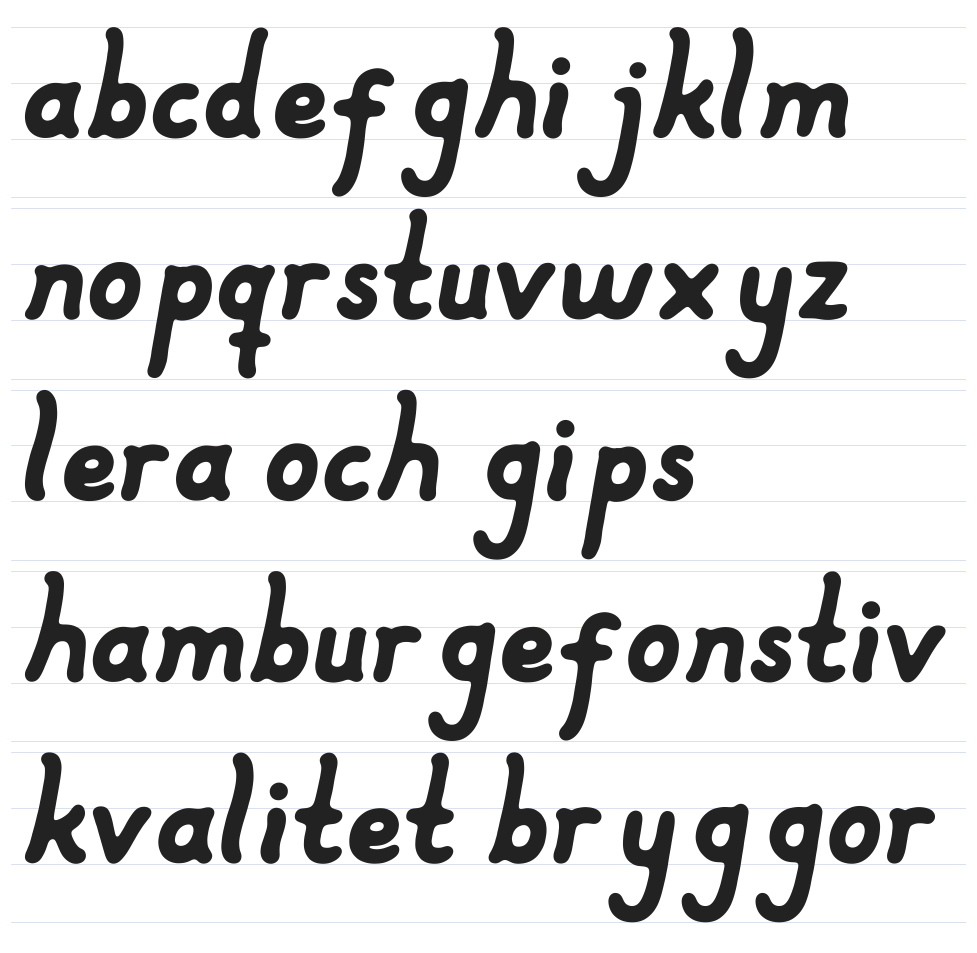
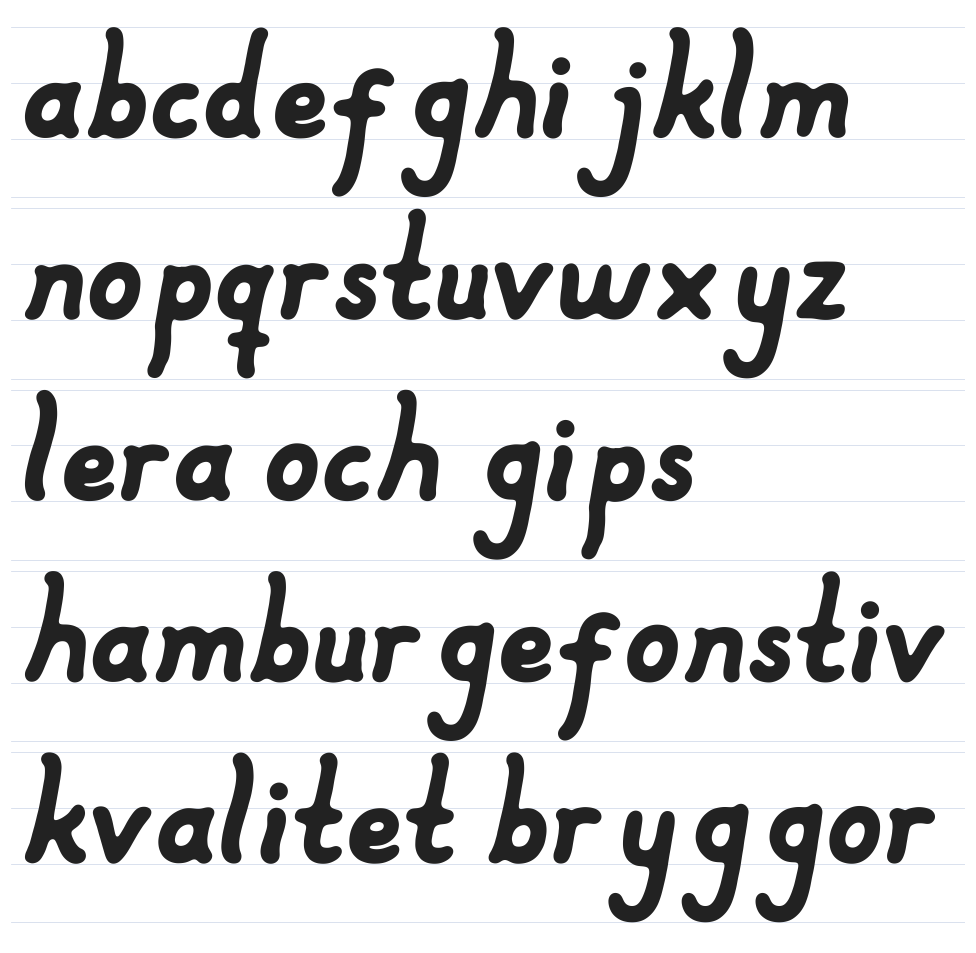
Ge u:ets armar samma mjuka böj och p:s nedstapel f:s sväng
Båda armarna i u får vänster arms ursprungliga böj (0,06), så de är
parallella men inte stela. p:s nedstapel får samma sväng som f:s.

Claude-Session: https://claude.ai/code/session_01G3Fa1qrTuHzte3kfXkaDtX

diff --git a/bokstaver/fixa_u_p.py b/bokstaver/fixa_u_p.py
@@ -82,12 +82,15 @@ if __name__ == "__main__":
 
 
 
-def rata_u(fil, varv=2):
+def rata_u(fil, varv=2, sving=0.0, amplitud=None):
     """Gör u:ets armar raka och parallella. Varje arm flyttas höjd för höjd så
     att dess mittlinje blir en rak linje med LUTNING grader, och får samma
     bredd hela vägen (armens medianbredd), så att båda kanterna blir raka.
     De rundade topparna flyttas med utan att ändra form, och bågen nertill
-    tonas ut."""
+    tonas ut. Båda armarna får samma mjuka böj: vänster arms ursprungliga
+    mittlinjesväng (armarna böjer annars åt motsatta håll eftersom u är ett
+    vänt n), skalad med sving eller till en given amplitud."""
+    mal = None
     for _ in range(varv):
         u = trimesh.load(fil)
         (x0, y0, _), (x1, y1, _) = u.bounds
@@ -102,13 +105,26 @@ def rata_u(fil, varv=2):
         bitar = [armar(y) for y in ys]
         mitt = np.median([(b[0][1] + b[-1][0]) / 2 for b in bitar if len(b) >= 2])
         v = u.vertices.copy()
+        ok = np.array([len(b) >= 2 for b in bitar])
+        cw = {arm: (np.array([(b[arm][0] + b[arm][1]) / 2 for b, o in zip(bitar, ok) if o]),
+                    np.array([b[arm][1] - b[arm][0] for b, o in zip(bitar, ok) if o])) for arm in (0, -1)}
+        yk = ys[ok]
+        if mal is None:
+            # mål bestäms en gång från originalet: rak 10°-linje + gemensam sväng
+            avvik = []
+            for arm in (0, -1):
+                k, c0 = np.polyfit(yk, cw[arm][0], 1)
+                avvik.append(cw[arm][0] - (k * yk + c0))
+            gem = gaussian_filter1d(avvik[0], 3, mode="nearest")
+            if amplitud is not None:
+                gem = gem * amplitud / np.ptp(gem)
+                sving = 1.0
+            mal = {arm: (yk.copy(), cw[arm][0].mean() + K * (yk - yk.mean()) + sving * gem, np.median(cw[arm][1]))
+                   for arm in (0, -1)}
         for arm in (0, -1):
-            ok = np.array([len(b) >= 2 for b in bitar])
-            c = np.array([(b[arm][0] + b[arm][1]) / 2 if len(b) >= 2 else np.nan for b in bitar])
-            w = np.array([b[arm][1] - b[arm][0] if len(b) >= 2 else np.nan for b in bitar])
-            yk, c, w = ys[ok], c[ok], w[ok]
-            ct = c.mean() + K * (yk - yk.mean())
-            wt = np.median(w)
+            c, w = cw[arm]
+            ct = np.interp(yk, mal[arm][0], mal[arm][1])
+            wt = mal[arm][2]
             dx = gaussian_filter1d(ct - c, 2, mode="nearest")
             sk = gaussian_filter1d(wt / w, 2, mode="nearest")
             # full verkan i armen, ingen skalning i topparna, uttoning mot bågen
@@ -128,5 +144,33 @@ def rata_u(fil, varv=2):
     kanter = np.array([[k for b in [armar(y)] for k in (b[0][0], b[0][1], b[-1][0], b[-1][1])] for y in ys])
     for i, namn in enumerate(("vänster arm ytterkant", "vänster arm innerkant", "höger arm innerkant", "höger arm ytterkant")):
         k, c0 = np.polyfit(ys, kanter[:, i], 1)
-        print(f"u {namn}: {np.degrees(np.arctan(k)):.1f}°, största avvikelse från rak linje {np.abs(kanter[:, i] - (k * ys + c0)).max():.3f}")
+        print(f"u {namn}: {np.degrees(np.arctan(k)):.1f}°, sväng (avvikelse från rak linje) {np.abs(kanter[:, i] - (k * ys + c0)).max():.3f}")
     print(f"u vattentät {ny.is_watertight}")
+
+
+
+def p_som_f(mapp):
+    """Ger p:s nedstapel samma sväng som f:s nedstapel. Stammen i x-höjden
+    och skålen rörs inte; svängen tonas in strax under baslinjen."""
+    t = np.linspace(-1.9, -0.1, 50)
+    f = trimesh.load(os.path.join(mapp, "f.stl"))
+    xf = kantprofil(f, -20.0, "V", t, None)
+    kf, cf = np.polyfit(t, xf, 1)
+    sv_f = gaussian_filter1d(xf - (kf * t + cf), 2, mode="nearest")
+    fil = os.path.join(mapp, "p.stl")
+    p = trimesh.load(fil)
+    xp = kantprofil(p, 0.0, "V", t, None)
+    malx = xp.mean() + K * (t - t.mean()) + sv_f
+    dx = gaussian_filter1d(malx - xp, 2, mode="nearest")
+    dx -= dx[-1]  # ingen förflyttning vid baslinjen
+    v = p.vertices.copy()
+    d = np.interp(v[:, 1], t, dx) * ramp(v[:, 1], 0.0, -0.4)
+    xs = kant(p, -0.8, "V")
+    v[:, 0] += d * (1 - ramp(v[:, 0], xs + 0.55, xs + 0.85))
+    ny = laga(trimesh.Trimesh(v, p.faces, process=False))
+    ny, _ = slapp_i_hal(ny); ny = laga(ny)
+    xn = kantprofil(ny, 0.0, "V", t, None)
+    kn, cn = np.polyfit(t, xn, 1)
+    print(f"p: nedstapelns sväng {np.ptp(xp - np.polyval(np.polyfit(t, xp, 1), t)):.3f} → {np.ptp(xn - (kn * t + cn)):.3f} "
+          f"(f:s {np.ptp(sv_f):.3f}), lutning {np.degrees(np.arctan(kn)):.1f}°, vattentät {ny.is_watertight}")
+    ny.export(fil)
